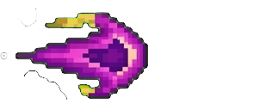
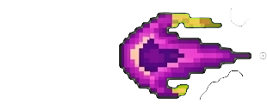
feat: implement enemie plant

diff --git a/js/models/enemy-plant.class.js b/js/models/enemy-plant.class.js
@@ -1,10 +1,74 @@
 class EnemyPlant extends MovableObject {
+  speed = 0.15 + Math.random() * 0.25;
+
+  hitboxOffset = {
+    top: 0,
+    bottom: 0,
+    left: 15,
+    right: 20,
+  };
+
+  healthPoints = 20;
+
+  imagesAttack = [
+    `img/enemies/enemy_plant/shoot/1_s.png`,
+    `img/enemies/enemy_plant/shoot/2_s.png`,
+    `img/enemies/enemy_plant/shoot/3_s.png`,
+    `img/enemies/enemy_plant/shoot/4_s.png`,
+    `img/enemies/enemy_plant/shoot/5_s.png`,
+  ];
+
+  imagesHurt = [
+    `img/enemies/enemy_plant/hit/1_h.png`,
+    `img/enemies/enemy_plant/hit/2_h.png`,
+    `img/enemies/enemy_plant/hit/3_h.png`,
+    `img/enemies/enemy_plant/hit/4_h.png`,
+  ];
+
+  imagesDead = [
+    `img/enemies/enemy_plant/dies/1_d.png`,
+    `img/enemies/enemy_plant/dies/2_d.png`,
+    `img/enemies/enemy_plant/dies/3_d.png`,
+    `img/enemies/enemy_plant/dies/4_d.png`,
+    `img/enemies/enemy_plant/dies/5_d.png`,
+    `img/enemies/enemy_plant/dies/6_d.png`,
+  ];
+
+  currentImage = 0;
+
   constructor() {
     super().loadImage(`img/enemies/enemy_plant/walking/1_w.png`);
-
-    this.x = 500;
-    this.y = 180;
+    this.x = 600;
+    this.y = 265;
     this.width = 124;
     this.height = 110;
+
+    this.loadAnimationImages(this.imagesAttack);
+    this.loadAnimationImages(this.imagesHurt);
+    this.loadAnimationImages(this.imagesDead);
+
+    this.animate();
+  }
+
+  animate() {
+    setInterval(() => {
+      if (this.isDead()) {
+        this.displayAnimation(this.imagesDead);
+      } else if (this.isHurt()) {
+        this.displayAnimation(this.imagesHurt);
+      } else {
+        let i = this.currentImage % this.imagesAttack.length;
+
+        if (i === 3) {
+          this.shoot();
+        }
+        this.displayAnimation(this.imagesAttack);
+      }
+    }, 400);
+  }
+
+  shoot() {
+    let projectile = new EnemyPlantProjectileObject(this.x - 20, this.y + 30);
+    world.enemyProjectiles.push(projectile);
   }
 }

diff --git a/js/models/world.class.js b/js/models/world.class.js
@@ -6,6 +6,7 @@ class World {
   bossStatusBar = new BossStatusBar();
   lightCharacter = new LightCharacter();
   shadowProjectile = [];
+  enemyProjectiles = [];
   bossTriggered = false;
   lastProjectileFired = 0;
 
@@ -35,8 +36,20 @@ class World {
       this.checkCoinCollisions();
       this.checkProjectileCollisions();
       this.checkBossTrigger();
-      // Das addToMap für den Boss ist hier verschwunden!
+      this.checkEnemyProjectileCollisions();
     }, 1000 / 60);
+  }
+
+  checkEnemyProjectileCollisions() {
+    this.enemyProjectiles.forEach((projectile, index) => {
+      if (this.shadowCharacter.isColliding(projectile)) {
+        if (!this.shadowCharacter.isHurt()) {
+          this.shadowCharacter.hit();
+          this.characterStatusBar.setLifePercentage(this.shadowCharacter.healthPoints);
+        }
+        this.enemyProjectiles.splice(index, 1);
+      }
+    });
   }
 
   checkBossTrigger() {
@@ -93,6 +106,20 @@ class World {
         }
       });
 
+      this.level.enemyPlant.forEach((plant) => {
+        if (projectile.isColliding(plant) && !plant.isDead()) {
+          plant.hit();
+          projectileHit = true;
+
+          setTimeout(() => {
+            let index = this.level.enemyPlant.indexOf(plant);
+            if (index > -1) {
+              this.level.enemyPlant.splice(index, 1);
+            }
+          }, 1000);
+        }
+      });
+
       if (projectileHit || projectile.y > 600 || projectile.x > this.shadowCharacter.x + 800) {
         this.shadowProjectile.splice(pIndex, 1);
       }
@@ -113,12 +140,39 @@ class World {
           if (!this.shadowCharacter.isHurt()) {
             this.shadowCharacter.hit();
             this.characterStatusBar.setLifePercentage(this.shadowCharacter.healthPoints);
-
-            console.log("Treffer! Leben:", this.shadowCharacter.healthPoints);
+            console.log("Treffer von Stomp! Leben:", this.shadowCharacter.healthPoints);
           }
         }
       }
     });
+
+    if (this.level.enemyPlant) {
+      this.level.enemyPlant.forEach((plant) => {
+        if (this.shadowCharacter.isColliding(plant) && !plant.isDead()) {
+          let charBottom =
+            this.shadowCharacter.y + this.shadowCharacter.height - this.shadowCharacter.hitboxOffset.bottom;
+          let plantTop = plant.y + plant.hitboxOffset.top;
+
+          if (this.shadowCharacter.speedY < 0 && charBottom < plantTop + 50) {
+            plant.hit();
+            this.shadowCharacter.speedY = 2;
+
+            setTimeout(() => {
+              let index = this.level.enemyPlant.indexOf(plant);
+              if (index > -1) {
+                this.level.enemyPlant.splice(index, 1);
+              }
+            }, 1000);
+          } else {
+            if (!this.shadowCharacter.isHurt()) {
+              this.shadowCharacter.hit();
+              this.characterStatusBar.setLifePercentage(this.shadowCharacter.healthPoints);
+              console.log("Pflanze berührt! Leben:", this.shadowCharacter.healthPoints);
+            }
+          }
+        }
+      });
+    }
   }
 
   checkItemCollisions() {
@@ -172,9 +226,10 @@ class World {
     this.addToMap(this.shadowCharacter);
 
     this.addObjectsToMap(this.level.enemyStomps);
+    this.addObjectsToMap(this.level.enemyPlant);
     this.addObjectsToMap(this.level.enemyEndboss);
     this.addObjectsToMap(this.shadowProjectile);
-
+    this.addObjectsToMap(this.enemyProjectiles);
     this.addObjectsToMap(this.level.coins);
     this.addObjectsToMap(this.level.shadowEnergy);
 

diff --git a/js/models/enemy-plant-projectile.class.js b/js/models/enemy-plant-projectile.class.js
@@ -1,0 +1,36 @@
+class EnemyPlantProjectileObject extends MovableObject {
+  imagesFly = [`img/enemies/enemy_plant/projectile/1_p.png`, `img/enemies/enemy_plant/projectile/2_p.png`];
+
+  hitboxOffset = {
+    top: 0,
+    bottom: 0,
+    left: 0,
+    right: 0,
+  };
+
+  constructor(startX, startY) {
+    super();
+    this.loadImage(this.imagesFly[0]);
+    this.loadAnimationImages(this.imagesFly);
+
+    this.x = startX;
+    this.y = startY;
+    this.height = 45;
+    this.width = 45;
+
+    this.animate();
+    this.shootProjectile();
+  }
+
+  shootProjectile() {
+    setInterval(() => {
+      this.x -= 6;
+    }, 1000 / 60);
+  }
+
+  animate() {
+    setInterval(() => {
+      this.displayAnimation(this.imagesFly);
+    }, 150);
+  }
+}

diff --git a/js/models/level.class.js b/js/models/level.class.js
@@ -5,14 +5,24 @@ class Level {
   enemyEndboss;
   coins;
   shadowEnergy;
+  enemyPlant;
   level_end_x = 2700;
 
-  constructor(enemyStomps, backgroundObjectsRear, backgroundObjectsFront, enemyEndboss, coins, shadowEnergy) {
+  constructor(
+    enemyStomps,
+    backgroundObjectsRear,
+    backgroundObjectsFront,
+    enemyEndboss,
+    coins,
+    shadowEnergy,
+    enemyPlant,
+  ) {
     this.enemyStomps = enemyStomps;
     this.backgroundObjectsRear = backgroundObjectsRear;
     this.backgroundObjectsFront = backgroundObjectsFront;
     this.enemyEndboss = enemyEndboss;
     this.coins = coins;
     this.shadowEnergy = shadowEnergy;
+    this.enemyPlant = enemyPlant;
   }
 }

diff --git a/index.html b/index.html
@@ -14,6 +14,7 @@
     <script src="./js/models/keyboard.class.js" defer></script>
     <script src="./js/models/boss.class.js" defer></script>
     <script src="./js/models/enemy-plant.class.js" defer></script>
+    <script src="./js/models/enemy-plant-projectile.class.js" defer></script>
     <script src="./js/models/enemy-stomp.class.js" defer></script>
     <script src="./js/models/enemy-endboss.class.js" defer></script>
     <script src="./js/models/light-character.class.js" defer></script>

diff --git a/js/models/boss-status-bar.class.js b/js/models/boss-status-bar.class.js
@@ -27,7 +27,6 @@ class BossStatusBar extends DrawableObject {
     this.img = this.imageCache[imagePath];
   }
 
-  // CHANGED: Strict >= boundaries to prevent undefined array indexes
   resolveImageIndex() {
     if (this.percentage >= 100) return 5;
     else if (this.percentage >= 80) return 4;

diff --git a/js/models/enemy-stomp.class.js b/js/models/enemy-stomp.class.js
@@ -55,6 +55,7 @@ class EnemyStomp extends MovableObject {
     this.height = 70;
 
     this.loadAnimationImages(this.imagesWalk);
+    this.loadAnimationImages(this.imagesDead);
     this.animate();
     this.moveLeft();
   }

diff --git a/level/level1.js b/level/level1.js
@@ -74,4 +74,5 @@ const level1 = new Level(
   [new EnemyEndboss()],
   [new Coin(400, 150), new Coin(600, 100), new Coin(800, 150)],
   [new ShadowEnergy(500, 250), new ShadowEnergy(900, 250)],
+  [new EnemyPlant()],
 );